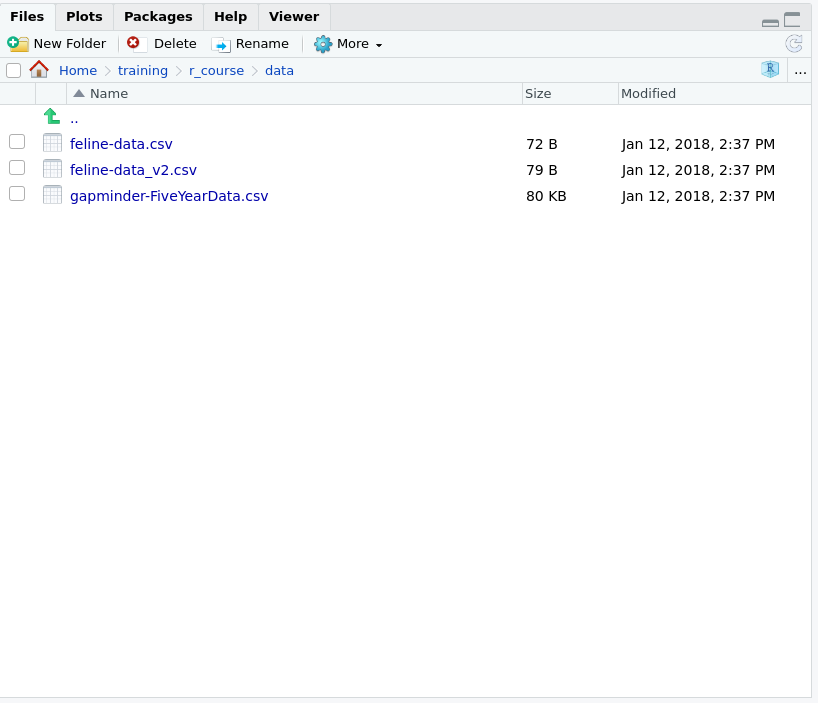
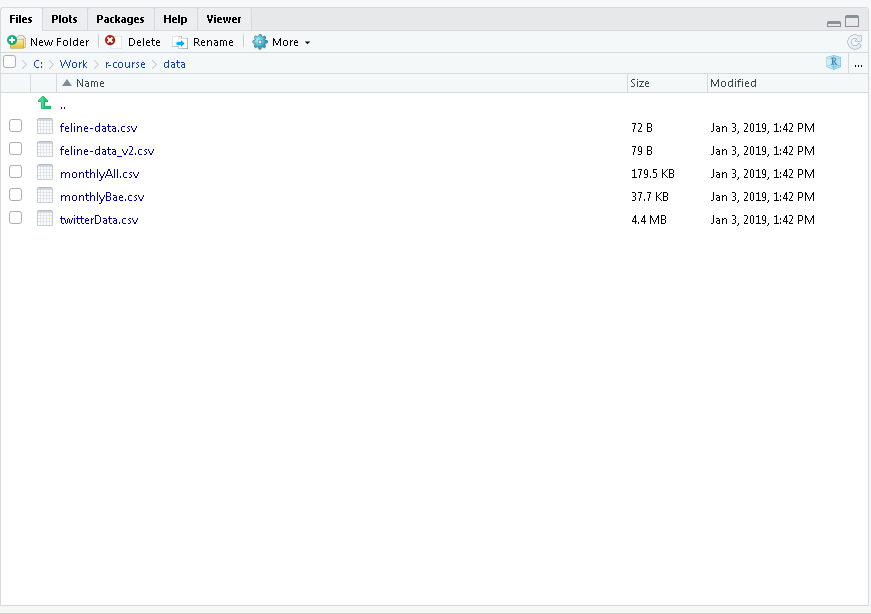
Update project screen shots - fixes #6

diff --git a/_episodes/01-rstudio-intro.md b/_episodes/01-rstudio-intro.md
@@ -83,10 +83,11 @@ rest of the day into it.
 1. Click the "File" menu button, then "New Project".
 2. Click "New Directory".
 3. Click "Empty Project".
-4. Type in the name of the directory to store your project, e.g. "r_course". _You should avoid using spaces and fullstops in the project name_.
-5. If you are using a teaching cluster machine, choose "Browse" and select `P:\`.  
+4. Type in the name of the directory to store your project, e.g. "r-course". _You should avoid using spaces and fullstops in the project name_.
+5. If you are using a teaching cluster machine, choose "Browse" and select `C:\work`  
 6. Click the "Create Project" button.
 
+(There may already be an `r-course` folder in `C:\work` from a previous presentation of the course.  Feel free to delete it if this is the case)
 
 ## Good practices for project organization
 
@@ -136,7 +137,7 @@ get shared between projects.
 
 Create `data`, `src`, and `results` directories in your project directory.
 
-Copy the files `gapminder-FiveYearData.csv`, `feline-data.csv`,  and `feline-data_v2.csv` files from the [zip file you downloaded]({{ page.root }}/data/r-novice.zip) as part of the lesson set up to the `data/` folder within your project.  We will load and use these files later in the course.
+Copy the all the files from the [zip file you downloaded]({{ page.root }}/data/r-novice.zip) as part of the lesson set up to the `data/` folder within your project.  We will load and use these files later in the course.
 
 Note that you cannot drag and drop files from Windows Explorer
 (or your operating system's equivalent) into the files window in RStudio.   You can
@@ -155,7 +156,7 @@ The data directory should looks like this:
 
 ![](../fig/01-project-data.png)
 
-Note that the path ("Home > training > ...") will vary according to where you created the project.
+Note that the path ("c: > Work > r-course ...") will vary according to where you created the project.
 
 Now when we start R in this project directory, or open this project with RStudio,
 all of our work on this project will be entirely self-contained in this directory.  
